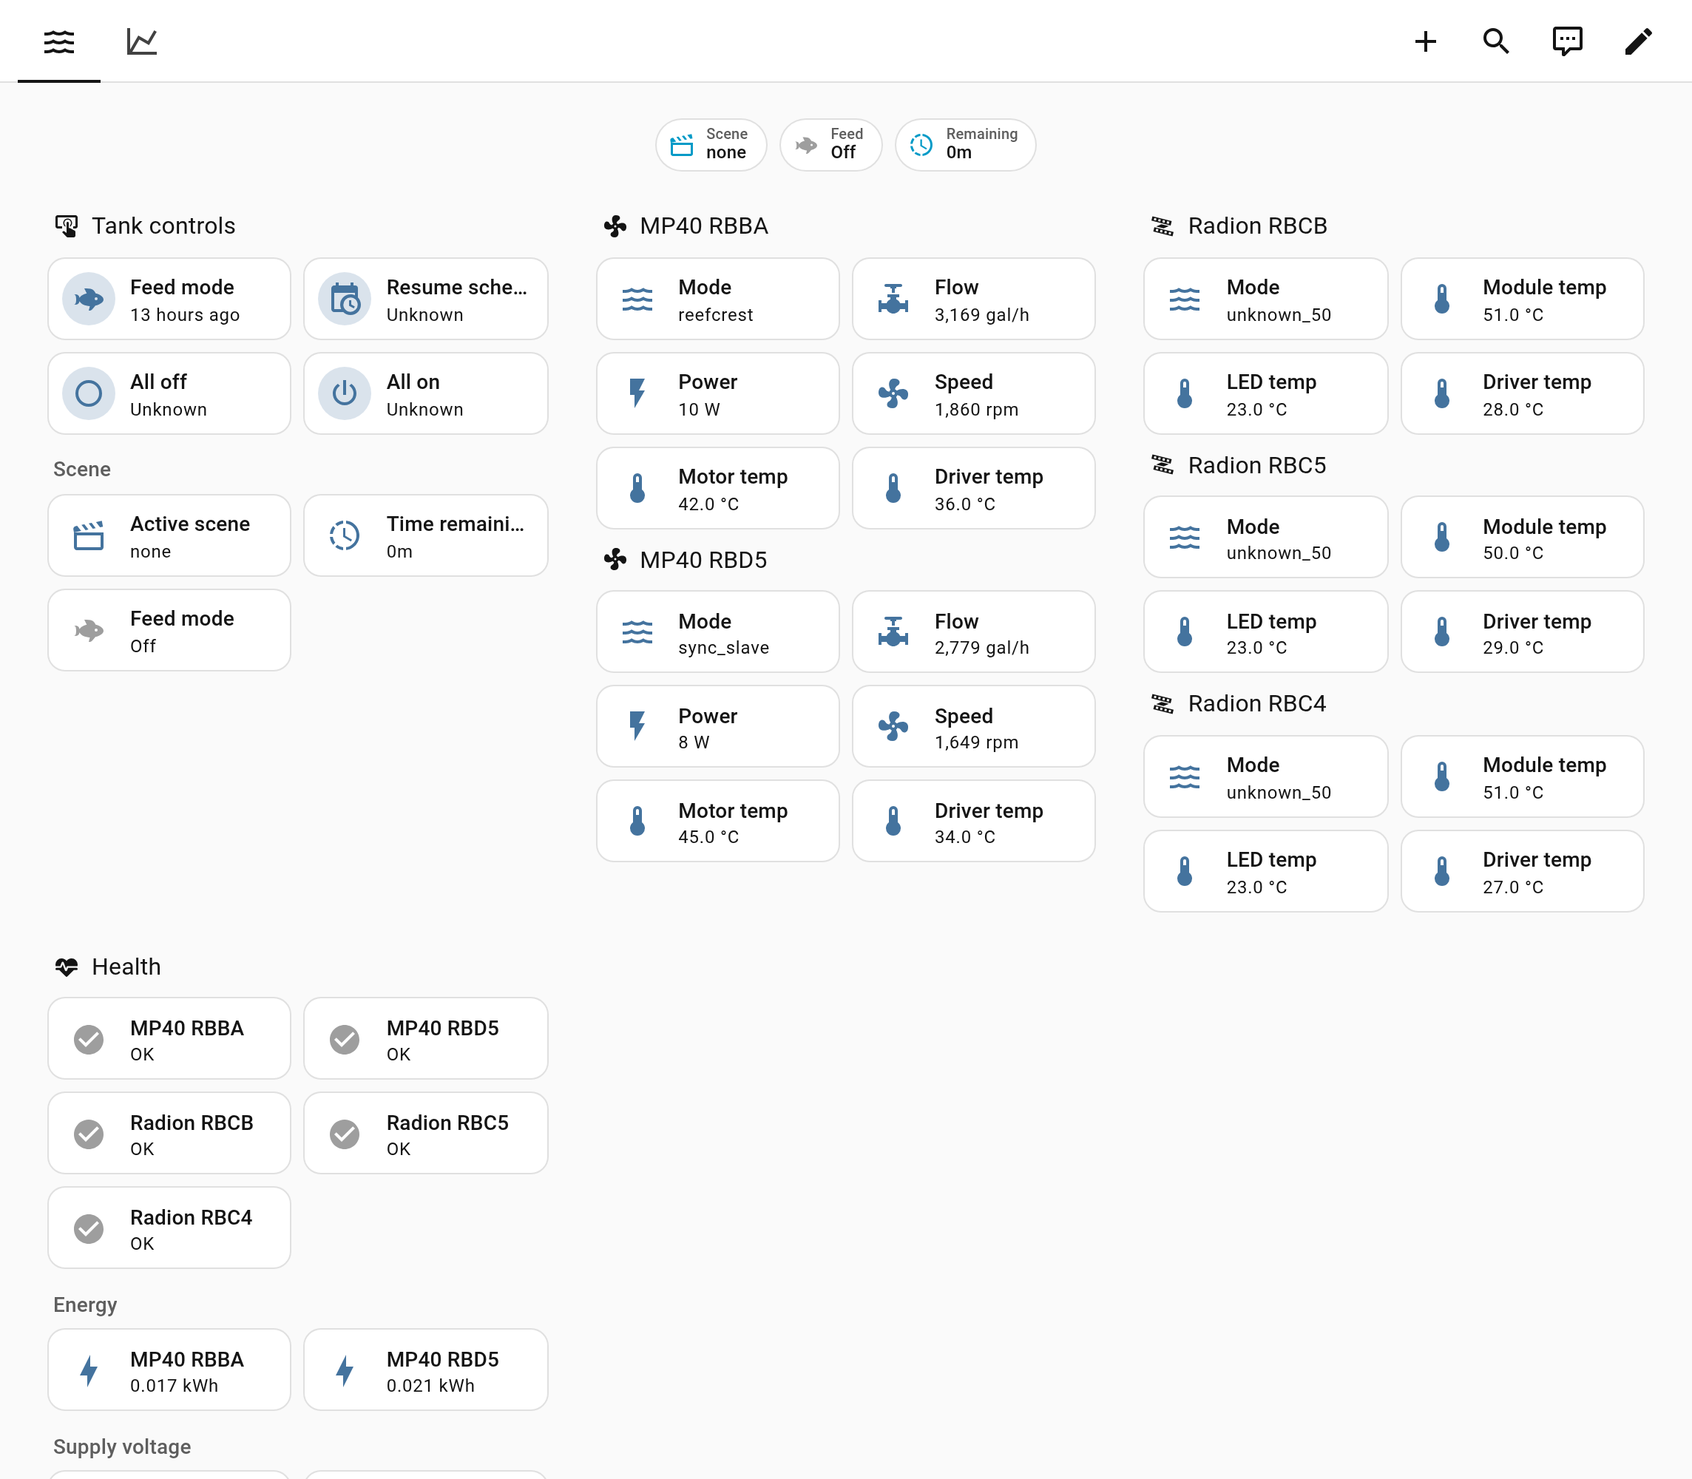
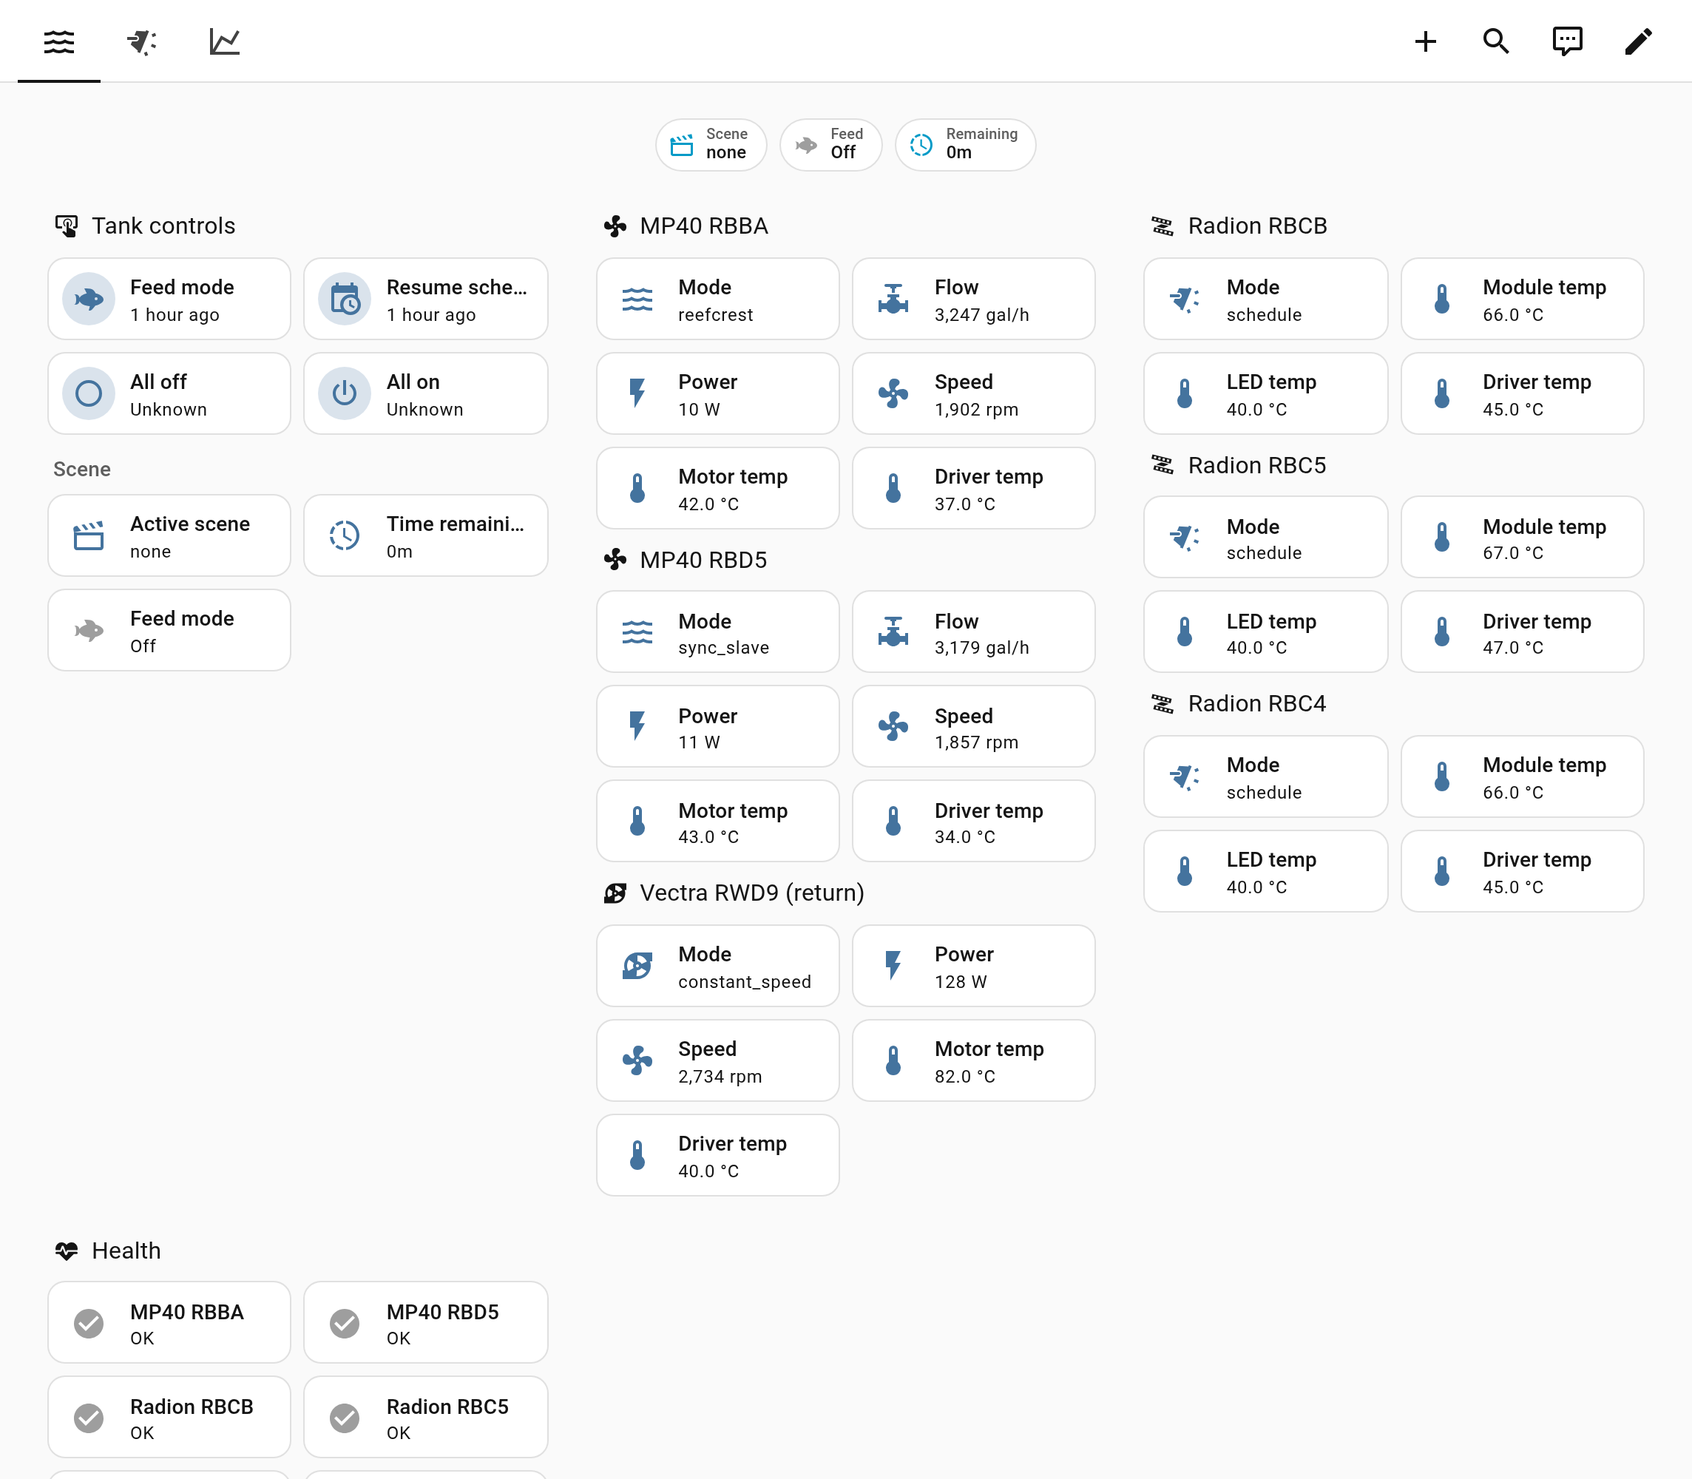
Code review fixes; allow removing devices that left the tank
- DRY: one tank id helper, one unique-id helper and is_mobius in the
  config flow, one "strongest devices first" helper for polls and
  commands.
- Remove the client's unused indication queue.
- Type the coordinator helpers.
- ruff (Home Assistant import style) configured and clean.
- async_remove_config_entry_device: a device the last poll didn't
  report can be deleted; the tank and present devices can't.
- docs/02: Radion OperationMode 50 means "directly connected over BLE";
  read through the mesh the light reports its real mode.

diff --git a/custom_components/mobius/coordinator.py b/custom_components/mobius/coordinator.py
@@ -13,7 +13,6 @@ from typing import Any
 
 from bleak.exc import BleakError
 from bleak_retry_connector import BleakClientWithServiceCache, establish_connection
-
 from homeassistant.components import bluetooth
 from homeassistant.config_entries import ConfigEntry
 from homeassistant.core import HomeAssistant, callback
@@ -47,6 +46,8 @@ FIRST_ADVERT_WAIT_SECONDS = 40
 
 # connection failures in a row (poll or command) after which the radio path counts as down
 ABORT_AFTER_CONNECT_FAILURES = 2
+
+type Seen = bluetooth.BluetoothServiceInfoBleak
 
 CONNECT_ERRORS = (BleakError, TimeoutError, p.ProtocolError, EOFError)
 
@@ -187,7 +188,6 @@ class MobiusCoordinator(DataUpdateCoordinator[TankData]):
                 found[adv.serial] = (info, adv)
         return found
 
-
     async def _with_client(
         self, info: bluetooth.BluetoothServiceInfoBleak, action: Callable[[MobiusClient], Awaitable[Any]]
     ) -> Any:
@@ -256,7 +256,8 @@ class MobiusCoordinator(DataUpdateCoordinator[TankData]):
         return state
 
     async def _read_tank(
-        self, client: MobiusClient, info, adv: p.Advert, seen, devices: dict[str, DeviceState]
+        self, client: MobiusClient, info: Seen, adv: p.Advert, seen: dict[str, tuple[Seen, p.Advert]],
+        devices: dict[str, DeviceState],
     ) -> None:
         """Read the bridge directly, then every other mesh device through its relay (~0.5 s each vs ~2 s direct)."""
         devices[adv.serial] = await self._read_device(client, info.address, adv)
@@ -295,7 +296,7 @@ class MobiusCoordinator(DataUpdateCoordinator[TankData]):
         errors: dict[str, str] = {}
         tried = False
         # mesh first: one connection to the strongest device that takes one
-        for info, adv in sorted(seen.values(), key=lambda s: s[0].rssi, reverse=True)[:2]:
+        for info, adv in _strongest(seen):
             if self._path_down(tried):
                 break
             tried = True
@@ -328,7 +329,7 @@ class MobiusCoordinator(DataUpdateCoordinator[TankData]):
             raise UpdateFailed(f"Couldn't read any of {len(seen)} advertising Mobius devices")
         return TankData(devices)
 
-    def _keep_last(self, serial: str, last: dict[str, DeviceState], devices: dict[str, DeviceState], why) -> None:
+    def _keep_last(self, serial: str, last: dict[str, DeviceState], devices: dict[str, DeviceState], why: str) -> None:
         """Count a failed read; the last reading stands in until UNAVAILABLE_AFTER_FAILURES in a row."""
         failures = self._failures[serial] = self._failures.get(serial, 0) + 1
         _LOGGER.debug("%s: read failed (%d in a row): %s", serial, failures, why)
@@ -340,11 +341,10 @@ class MobiusCoordinator(DataUpdateCoordinator[TankData]):
         seen = self.advertised()
         if not seen:
             raise HomeAssistantError(f"Can't {what}: no device of this tank is in Bluetooth range")
-        candidates = sorted(seen.values(), key=lambda s: s[0].rssi, reverse=True)
         last_err: Exception | None = None
         sent = False
         async with self._lock:  # for all attempts, so poll reads can't slip in between
-            for info, _adv in candidates[:2]:
+            for info, _adv in _strongest(seen):
                 if self._path_down(last_err is not None):
                     break
                 try:
@@ -358,6 +358,11 @@ class MobiusCoordinator(DataUpdateCoordinator[TankData]):
         if not sent:
             raise HomeAssistantError(f"Couldn't {what}: {last_err}") from last_err
         await self.async_request_refresh()
+
+
+def _strongest(seen: dict[str, tuple[Seen, p.Advert]]) -> list[tuple[Seen, p.Advert]]:
+    """The two devices with the best signal: who to connect to for the whole tank."""
+    return sorted(seen.values(), key=lambda s: s[0].rssi, reverse=True)[:2]
 
 
 async def _broadcast(client: MobiusClient, action, data: TankData | None) -> None:

diff --git a/custom_components/mobius/config_flow.py b/custom_components/mobius/config_flow.py
@@ -5,13 +5,13 @@ from __future__ import annotations
 
 from typing import Any
 
-import voluptuous as vol
-
 from homeassistant.components import bluetooth
 from homeassistant.config_entries import ConfigFlow, ConfigFlowResult
+import voluptuous as vol
 
 from . import protocol as p
-from .const import CONF_PAN_ID, DOMAIN, LOCAL_NAME
+from .const import CONF_PAN_ID, DOMAIN
+from .coordinator import is_mobius
 
 ADVERT_TIMEOUT_SECONDS = 60
 
@@ -19,7 +19,7 @@ ADVERT_TIMEOUT_SECONDS = 60
 def _tanks_in_range(hass) -> dict[int, list[p.Advert]]:
     tanks: dict[int, dict[str, p.Advert]] = {}
     for info in bluetooth.async_discovered_service_info(hass, connectable=True):
-        if info.name != LOCAL_NAME and p.SERVICE_UUID not in info.service_uuids:
+        if not is_mobius(info):
             continue
         adv = p.parse_advert(info.manufacturer_data)
         if adv is not None and adv.pan_id not in (0, 0xFFFF):
@@ -28,7 +28,11 @@ def _tanks_in_range(hass) -> dict[int, list[p.Advert]]:
 
 
 def _title(pan_id: int) -> str:
-    return f"Mobius tank {pan_id & 0xFFFF:04X}"
+    return f"Mobius tank {pan_id:04X}"
+
+
+def _unique_id(pan_id: int) -> str:
+    return f"{pan_id:04x}"
 
 
 def _summary(devices: list[p.Advert]) -> str:
@@ -58,7 +62,7 @@ class MobiusConfigFlow(ConfigFlow, domain=DOMAIN):
             adv = p.parse_advert(info.manufacturer_data)
         if adv is None or adv.pan_id in (0, 0xFFFF):
             return self.async_abort(reason="not_supported")
-        await self.async_set_unique_id(f"{adv.pan_id & 0xFFFF:04x}")
+        await self.async_set_unique_id(_unique_id(adv.pan_id))
         self._abort_if_unique_id_configured()
         self._pan_id = adv.pan_id
         self.context["title_placeholders"] = {"name": _title(adv.pan_id)}
@@ -77,7 +81,7 @@ class MobiusConfigFlow(ConfigFlow, domain=DOMAIN):
     async def _async_active_scan(self) -> dict[int, list[p.Advert]]:
         """Seen Mobius devices without a scan response yet: ask for an active scan of one."""
         for info in bluetooth.async_discovered_service_info(self.hass, connectable=True):
-            if p.SERVICE_UUID not in info.service_uuids and info.name != LOCAL_NAME:
+            if not is_mobius(info):
                 continue
             try:
                 await bluetooth.async_process_advertisements(
@@ -94,14 +98,18 @@ class MobiusConfigFlow(ConfigFlow, domain=DOMAIN):
 
     async def async_step_user(self, user_input: dict[str, Any] | None = None) -> ConfigFlowResult:
         configured = {e.unique_id for e in self._async_current_entries()}
-        tanks = {pan: devs for pan, devs in _tanks_in_range(self.hass).items() if f"{pan & 0xFFFF:04x}" not in configured}
+
+        def new(found: dict[int, list[p.Advert]]) -> dict[int, list[p.Advert]]:
+            return {pan: devs for pan, devs in found.items() if _unique_id(pan) not in configured}
+
+        tanks = new(_tanks_in_range(self.hass))
         if user_input is not None:
             pan_id = int(user_input[CONF_PAN_ID])
-            await self.async_set_unique_id(f"{pan_id & 0xFFFF:04x}")
+            await self.async_set_unique_id(_unique_id(pan_id))
             self._abort_if_unique_id_configured()
             return self.async_create_entry(title=_title(pan_id), data={CONF_PAN_ID: pan_id})
         if not tanks:
-            tanks = {pan: devs for pan, devs in (await self._async_active_scan()).items() if f"{pan & 0xFFFF:04x}" not in configured}
+            tanks = new(await self._async_active_scan())
         if not tanks:
             return self.async_abort(reason="no_devices_found")
         options = {str(pan): f"{_title(pan)}: {_summary(devs)}" for pan, devs in tanks.items()}

diff --git a/custom_components/mobius/client.py b/custom_components/mobius/client.py
@@ -54,7 +54,6 @@ class MobiusClient:
         self._write_lock = asyncio.Lock()
         self.wide = True
         self.opcodes: bytes = b""
-        self.indications: asyncio.Queue[p.Frame] = asyncio.Queue(maxsize=100)
 
     @property
     def mtu(self) -> int:
@@ -62,7 +61,10 @@ class MobiusClient:
         return max(20, size - 3)
 
     async def start(self, opcodes: bytes | None = None) -> None:
-        """Enable notifications and pick the opcode variants; pass `opcodes` from an earlier connection to skip asking."""
+        """Enable notifications and pick the opcode variants.
+
+        Pass `opcodes` from an earlier connection to skip asking for them.
+        """
         await self._ble.start_notify(p.RX_DATA_UUID, self._on_rx_data)
         await self._ble.start_notify(p.RX_FINAL_UUID, self._on_rx_final)
         if opcodes is not None:
@@ -102,22 +104,13 @@ class MobiusClient:
             fut = self._coap_pending.pop(ind.token, None)
             if fut and not fut.done():
                 fut.set_result(inner)
-            else:
-                self._queue_indication(inner)
             return
         if frame.group == p.OpGroup.C2CI_CONFIRM and frame.op == p.Op.COAP_REQUEST:
             return  # local ack that the relay was queued; the answer comes as 0x1A
         fut = self._pending.pop((frame.group, frame.op, frame.msg_id), None)
         if fut and not fut.done():
             fut.set_result(frame)
-        else:
-            self._queue_indication(frame)
-
-    def _queue_indication(self, frame: p.Frame) -> None:
-        try:
-            self.indications.put_nowait(frame)
-        except asyncio.QueueFull:
-            pass
+        # anything else is unsolicited (e.g. a late answer after a retry): nothing waits for it
 
     # --- sending ------------------------------------------------------------
 

diff --git a/custom_components/mobius/__init__.py b/custom_components/mobius/__init__.py
@@ -7,7 +7,7 @@ from homeassistant.const import Platform
 from homeassistant.core import HomeAssistant
 from homeassistant.helpers import device_registry as dr
 
-from .const import CONF_PAN_ID
+from .const import CONF_PAN_ID, DOMAIN
 from .coordinator import MobiusCoordinator
 from .entity import MobiusConfigEntry, MobiusRuntimeData, tank_device
 
@@ -18,9 +18,7 @@ async def async_setup_entry(hass: HomeAssistant, entry: MobiusConfigEntry) -> bo
     pan_id = entry.data[CONF_PAN_ID]
     coordinator = MobiusCoordinator(hass, entry, pan_id)
     await coordinator.async_config_entry_first_refresh()
-    tank = dr.async_get(hass).async_get_or_create(
-        config_entry_id=entry.entry_id, **tank_device(f"tank_{pan_id:04x}", pan_id)
-    )
+    tank = dr.async_get(hass).async_get_or_create(config_entry_id=entry.entry_id, **tank_device(pan_id))
     entry.runtime_data = MobiusRuntimeData(coordinator, pan_id, tank.id)
     await hass.config_entries.async_forward_entry_setups(entry, PLATFORMS)
     return True
@@ -28,3 +26,13 @@ async def async_setup_entry(hass: HomeAssistant, entry: MobiusConfigEntry) -> bo
 
 async def async_unload_entry(hass: HomeAssistant, entry: MobiusConfigEntry) -> bool:
     return await hass.config_entries.async_unload_platforms(entry, PLATFORMS)
+
+
+async def async_remove_config_entry_device(
+    hass: HomeAssistant, entry: MobiusConfigEntry, device: dr.DeviceEntry
+) -> bool:
+    """Allow deleting a pump or light the last poll didn't report; anything still there would come back."""
+    data = entry.runtime_data
+    current = data.coordinator.data.devices.keys() if data.coordinator.data else set()
+    ids = {i for domain, i in device.identifiers if domain == DOMAIN}
+    return not ids & (current | {data.tank_id})

diff --git a/tests/test_sensor.py b/tests/test_sensor.py
@@ -14,6 +14,7 @@ def test_battery_voltage_waits_for_a_battery():
 
 def test_mode_icon_shows_the_device_type():
     from types import SimpleNamespace
+
     from custom_components.mobius.coordinator import DeviceState, TankData
     from custom_components.mobius.sensor import ModeSensor
 
@@ -22,13 +23,15 @@ def test_mode_icon_shows_the_device_type():
     data = SimpleNamespace(coordinator=coordinator, tank_device_id="tank", tank_id="tank_405f", pan_id=0x405F)
     sensor = ModeSensor.__new__(ModeSensor)
     ModeSensor.__init__(sensor, data, adv.serial)
-    for primitive, icon in ((1, "mdi:light-flood-down"), (4, "mdi:waves"), (5, "mdi:pump"), (99, "mdi:help-circle-outline")):
+    icons = ((1, "mdi:light-flood-down"), (4, "mdi:waves"), (5, "mdi:pump"), (99, "mdi:help-circle-outline"))
+    for primitive, icon in icons:
         coordinator.data = TankData({adv.serial: DeviceState(adv.serial, "", adv, primitive=primitive)})
         assert sensor.icon == icon
 
 
 def test_light_channels_become_percent_sensors():
     from types import SimpleNamespace
+
     from custom_components.mobius.coordinator import DeviceState, TankData
     from custom_components.mobius.sensor import ChannelSensor, channel_sensor_ids
 

diff --git a/tests/test_init.py b/tests/test_init.py
@@ -1,0 +1,23 @@
+"""Integration setup helpers."""
+
+from types import SimpleNamespace
+
+from custom_components.mobius import async_remove_config_entry_device, protocol as p
+from custom_components.mobius.const import DOMAIN
+from custom_components.mobius.coordinator import DeviceState, TankData
+
+
+def _entry(serials: list[str]):
+    devices = {s: DeviceState(s, "", p.Advert(42, s, 0x405F, False)) for s in serials}
+    coordinator = SimpleNamespace(data=TankData(devices))
+    return SimpleNamespace(runtime_data=SimpleNamespace(coordinator=coordinator, tank_id="tank_405f"))
+
+
+async def test_only_devices_that_left_the_tank_can_be_removed(hass):
+    entry = _entry(["0000000TESTSN1"])
+    gone = SimpleNamespace(identifiers={(DOMAIN, "0000000TESTSN2")})
+    present = SimpleNamespace(identifiers={(DOMAIN, "0000000TESTSN1")})
+    tank = SimpleNamespace(identifiers={(DOMAIN, "tank_405f")})
+    assert await async_remove_config_entry_device(hass, entry, gone)
+    assert not await async_remove_config_entry_device(hass, entry, present)
+    assert not await async_remove_config_entry_device(hass, entry, tank)

diff --git a/custom_components/mobius/entity.py b/custom_components/mobius/entity.py
@@ -20,15 +20,19 @@ class MobiusRuntimeData:
 
     @property
     def tank_id(self) -> str:
-        return f"tank_{self.pan_id:04x}"
+        return tank_id(self.pan_id)
 
 
 type MobiusConfigEntry = ConfigEntry[MobiusRuntimeData]
 
 
-def tank_device(tank_id: str, pan_id: int) -> DeviceInfo:
+def tank_id(pan_id: int) -> str:
+    return f"tank_{pan_id:04x}"
+
+
+def tank_device(pan_id: int) -> DeviceInfo:
     return DeviceInfo(
-        identifiers={(DOMAIN, tank_id)},
+        identifiers={(DOMAIN, tank_id(pan_id))},
         name=f"Mobius tank {pan_id:04X}",
         manufacturer=MANUFACTURER,
         model="Mobius tank",
@@ -50,7 +54,7 @@ class MobiusTankEntity(CoordinatorEntity[MobiusCoordinator]):
         super().__init__(data.coordinator)
         self._attr_unique_id = f"{data.tank_id}_{key}"
         self._attr_translation_key = key
-        self._attr_device_info = tank_device(data.tank_id, data.pan_id)
+        self._attr_device_info = tank_device(data.pan_id)
 
 
 class MobiusDeviceEntity(CoordinatorEntity[MobiusCoordinator]):

diff --git a/tests/test_coordinator.py b/tests/test_coordinator.py
@@ -1,8 +1,8 @@
 """MobiusCoordinator polls and commands, with only the BLE connection faked."""
 
 import asyncio
-import time
 import struct
+import time
 from types import SimpleNamespace
 from unittest.mock import patch
 
@@ -170,7 +170,10 @@ def _info(address: str, manufacturer_data: dict[int, bytes]):
 
 
 def _scan_response(model: int, serial: str, pan: int) -> dict[int, bytes]:
-    raw = bytes([2, 0x02]) + struct.pack("<H", model) + b"\x00" + struct.pack("<iH", 0, pan) + serial.encode().ljust(17, b"\x00")
+    raw = (
+        bytes([2, 0x02]) + struct.pack("<H", model) + b"\x00" + struct.pack("<iH", 0, pan)
+        + serial.encode().ljust(17, b"\x00")
+    )
     return {int.from_bytes(raw[:2], "little"): raw[2:]}
 
 

diff --git a/docs/03-ha-integration.md b/docs/03-ha-integration.md
@@ -33,6 +33,7 @@ What `custom_components/mobius` does, built on the protocol in [01](01-ble-trans
   - **Battery voltage** is created only once it reads above 0 V. Pumps without a battery backup attached report 0 V.
   - Devices that report motor power also get an `energy` sensor (below).
 - Entities are added when a poll first reports their device or value. They are never removed while the entry is loaded.
+- **Removing a device:** a pump or light that the last poll didn't report (e.g. it left the tank) can be deleted from its device page. One that's still reported can't be deleted, because it would come straight back. The tank device can't be deleted either.
 
 ## Polling
 
@@ -74,5 +75,6 @@ What `custom_components/mobius` does, built on the protocol in [01](01-ble-trans
 
 ## Known gaps
 
-- Radion OperationMode 50 and model 195 have no name in the app's enums. They show as `unknown_50` and "Radion (model 195)" until a capture identifies them.
+- Model 195 has no name in the app's enums (codename only), so it shows as "Radion (model 195)".
+- A Radion read over a direct connection reports OperationMode 50 (shown as `unknown_50`) instead of its real mode (docs/02). Lights are normally read through the mesh, which reports the real mode.
 - Vectra pumps are read-tested through the mesh only (a Vectra L2). Whether a Vectra reports flow is unknown: GallonsPerHour read 0.

diff --git a/docs/02-attributes-and-control.md b/docs/02-attributes-and-control.md
@@ -101,7 +101,7 @@ Tank panId `0x405f`, group 2: 2 × VorTech MP40w G3 QD (model 42), 3 × model 19
 - **PhysicalValues returns several sparse blocks** in one response, e.g. MP40 indices 1–2, 4–7, 10–11. Units: °C, W, RPM, V, GPH.
   - MP40: driver 41 °C, motor 45 °C, 5–7 W, ~1500 RPM, input 31 V, ~2300–2650 GPH.
   - Radion: driver 55–59 °C, clusters 50–55 °C, module 75–79 °C, input 34–35 V.
-- **OperationMode:** MP40s report 34 (Reefcrest) and 37 (SyncSlave, the paired pump). Radions report **50**, which is not in `M.OperationMode` (open question).
+- **OperationMode:** MP40s report 34 (Reefcrest) and 37 (SyncSlave, the paired pump). Radions report **50**, which is not in `M.OperationMode`. **Resolved 2026-10-18:** a Radion reports 50 only while it is the device we're directly connected to over BLE. Read through the mesh at the same moment, it reports 2 (Schedule). Seen at the switch to mesh polls (18:20), and again when one light was read directly as a fallback (18:40, then Schedule on the next mesh read).
 - **Scenes:** `SceneTimeout` reads 3600 even with no scene active (`CurrentScene` = 0). Activity = `CurrentScene != 0 && SceneTimeout > 0`.
 - The light's `Name` attribute was blank; the pumps' was "MP40".
 - **GroupBitmap:** light `0x2000000000000003` (group 2 + sub-group 62), pump `0x03` (group 2).
